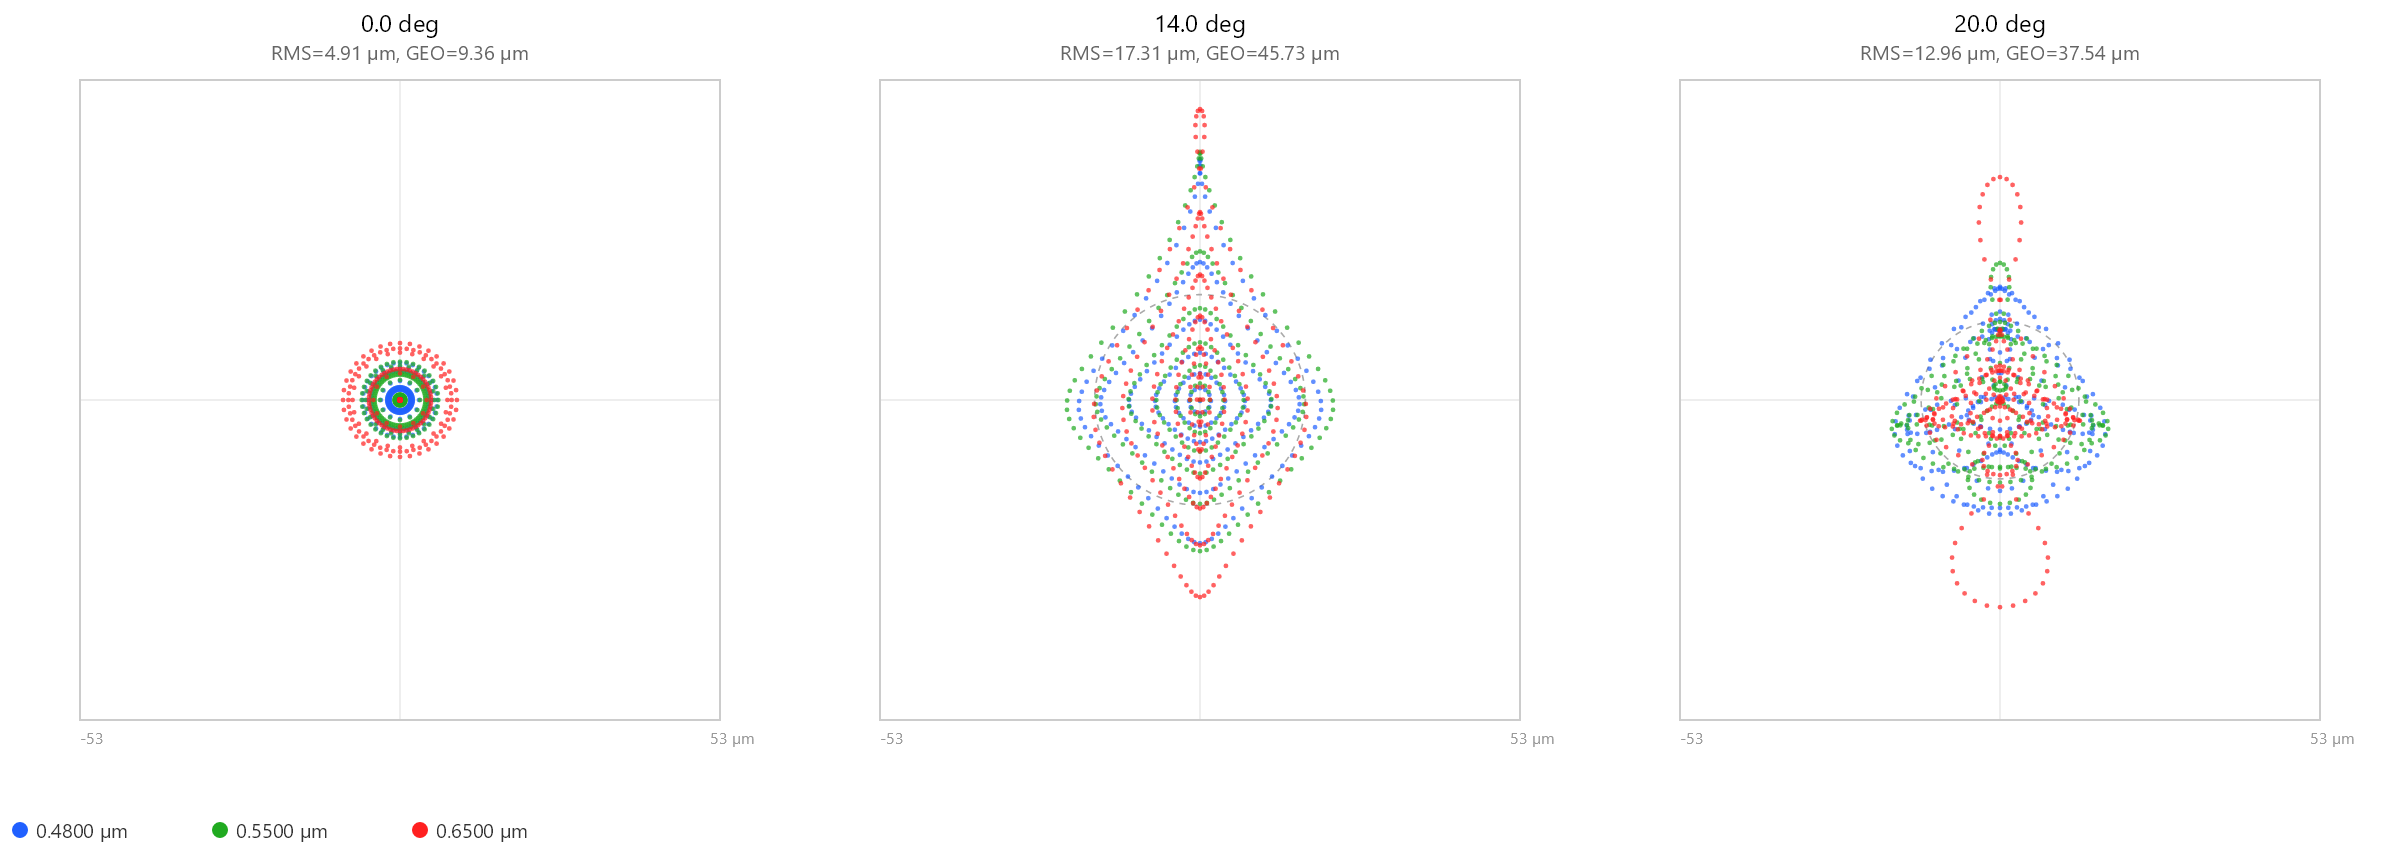
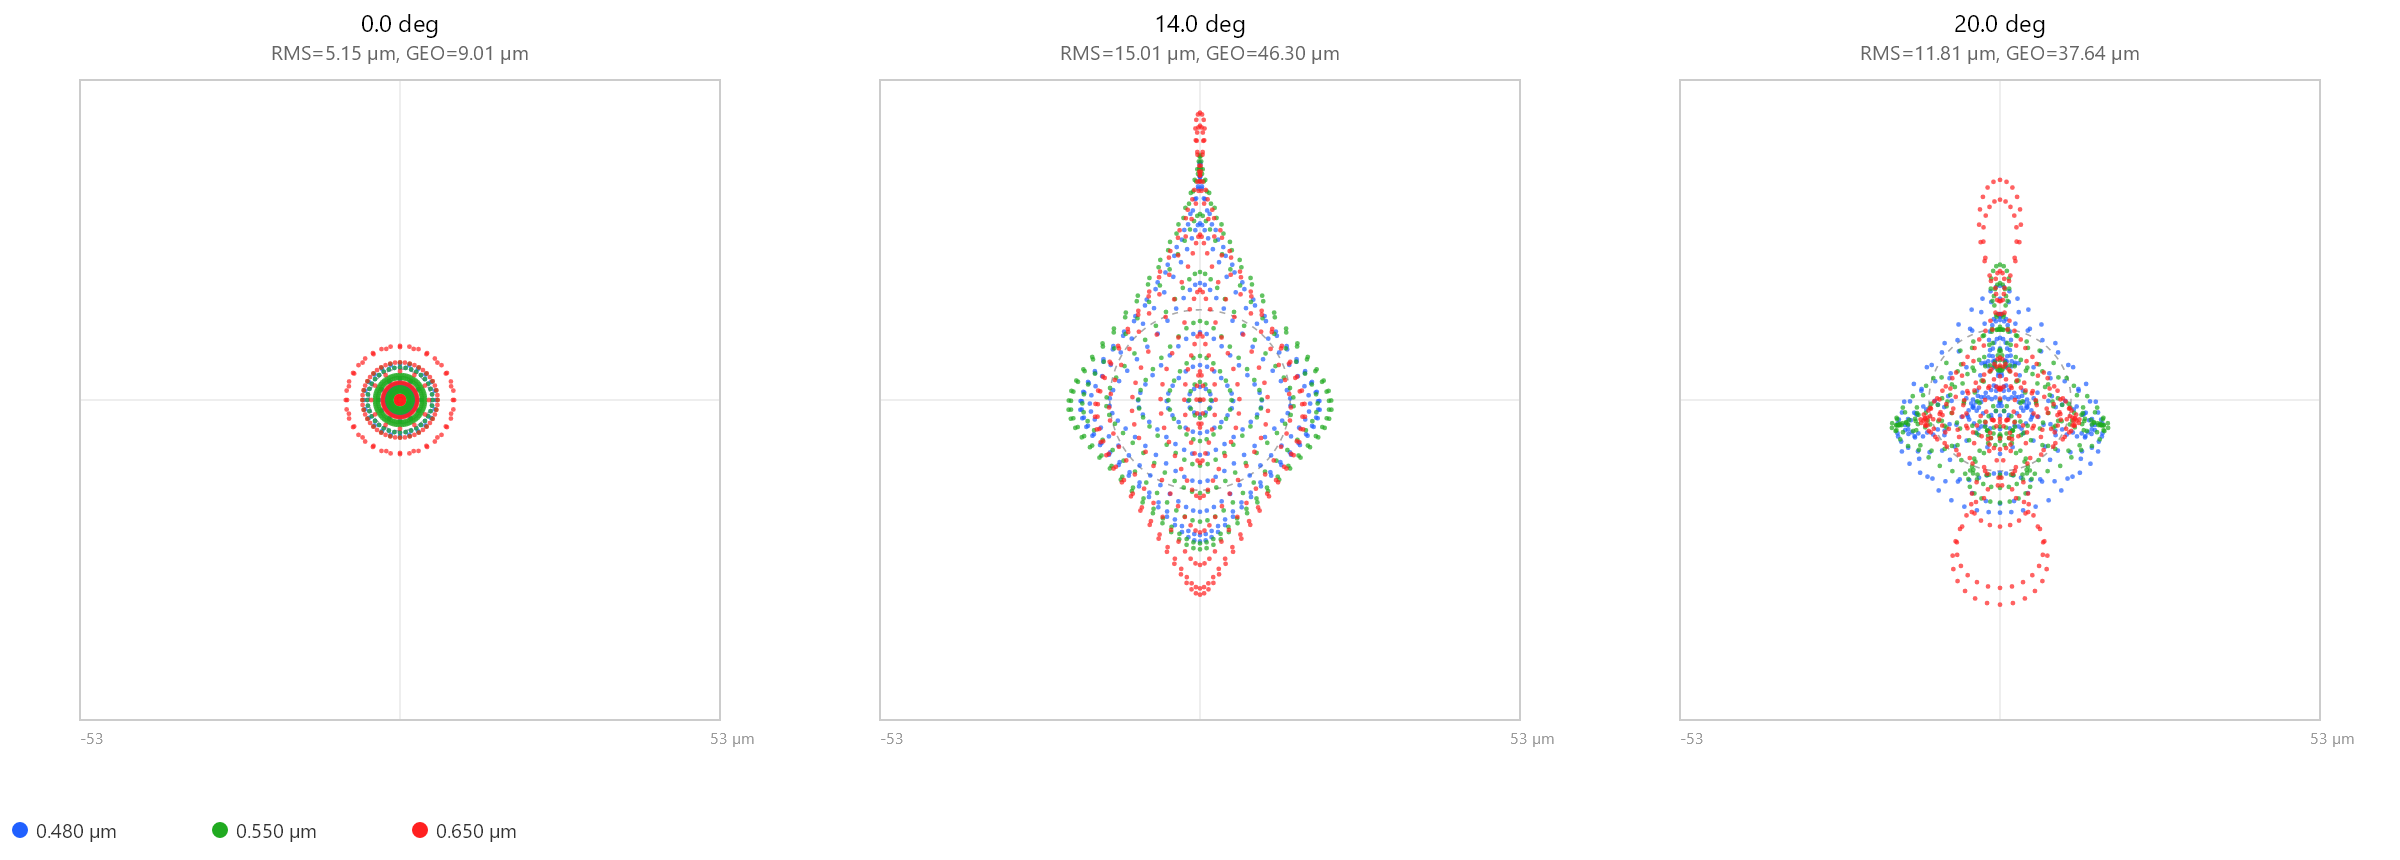
docs: refresh spot figures and tables for the 1.0.149 quadrature change
The spot diagram analysis now integrates the pupil with the same Gauss-Legendre
rule the SPOT/SPOTM merit macros already used, so every reported RMS spot radius
moved. Recaptured figures and regenerated the numbers that appear as text.

Figures replaced (all recaptured against their sample designs and cross-checked
against `analysis spot` on the same file):
  - CookeTripletAnalyses/SpotSize.png
  - CookeTripletLocalOptimization/SpotDiagramBeforeOptimization.png
  - CookeTripletMultiStart/SpotDiagramBeforeMultiStartOptimizationFixedGlass.png
    (same design and same capture as the LocalOptimization one above — the two
    figures were always duplicates)
  - CookeTripletSplit/SpotDiagramBeforeSplit.png, SpotDiagramafterSplit.png
  - SpcBk7Singlet/SpotDiagramBestDesignAfterSPC.png, ...AfterSPCandMS.png

analyses.md — Cooke triplet RMS/GEO table. Note GEO also moves off-axis: it is
the max radius about the CENTROID, and the centroid shifts slightly once the RMS
weighting changes. On-axis GEO is unchanged (8.07) because symmetry pins the
centroid at zero.

optimization.md — the asphere case study's RMS-spot table, regenerated from
samples/UserGuide/LensFilesForManual/CookeTriplet_UC_GS_Best_*.lhlt and confirmed
against recaptured spot diagrams (all 21 values agree).

The prose above that table needed rewriting, not just renumbering. It previously
read "the on-axis spot grows a little (3.15 -> 4.49 um)" and framed the result as
[…]

diff --git a/docs/build/gen-asphere-charts.js b/docs/build/gen-asphere-charts.js
@@ -12,14 +12,20 @@ const series = [
   { key: 'After asphere + BH',        color: '#9bbb59' },
 ];
 // [before, afterAsphere, afterBH] per field
+// Regenerated 2026-08-23 for 1.0.149, in which the spot analysis switched to the same
+// Gauss-Legendre pupil quadrature the SPOT/SPOTM merit macros already used. The previous
+// figures came from the old display-pattern average, which over-weighted the pupil rim and
+// so read high — most at the outer field, where aberration is rim-peaked (20 deg was 11.59,
+// is 7.62). Values below are 'analysis spot <field>' on the three sample designs in
+// samples/UserGuide/LensFilesForManual/, and match the recaptured spot diagrams exactly.
 const spot = {  // RMS spot radius, µm (polychromatic)
-  0:  [3.147, 3.342, 4.489],
-  5:  [3.021, 2.867, 4.157],
-  8:  [2.922, 2.333, 3.636],
-  11: [3.222, 2.328, 2.918],
-  14: [4.601, 3.628, 2.561],
-  17: [7.397, 6.035, 4.030],
-  20: [11.594, 9.214, 7.207],
+  0:  [3.147, 2.833, 2.728],
+  5:  [3.089, 2.541, 2.552],
+  8:  [2.969, 2.173, 2.282],
+  11: [2.856, 1.986, 1.944],
+  14: [3.201, 2.552, 1.945],
+  17: [4.717, 4.023, 3.091],
+  20: [7.620, 6.175, 5.296],
 };
 const wfe = {   // RMS wavefront error, waves (polychromatic weighted-RMS over 0.48/0.55/0.65 µm)
   0:  [0.086, 0.067, 0.045],
@@ -78,7 +84,7 @@ function chart(data, { title, yLabel, yMax, yTicks }) {
 
 const outDir = path.join(__dirname, '..', 'images', 'AsphereExploration');
 fs.writeFileSync(path.join(outDir, 'AsphereSpotVsField.svg'),
-  chart(spot, { title: 'RMS spot radius vs field', yLabel: 'RMS spot radius (µm)', yMax: 12, yTicks: 6 }));
+  chart(spot, { title: 'RMS spot radius vs field', yLabel: 'RMS spot radius (µm)', yMax: 8, yTicks: 4 }));
 fs.writeFileSync(path.join(outDir, 'AsphereWfeVsField.svg'),
   chart(wfe, { title: 'RMS wavefront error vs field (polychromatic)', yLabel: 'RMS WFE (waves)', yMax: 0.24, yTicks: 6 }));
 console.log('Wrote AsphereSpotVsField.svg + AsphereWfeVsField.svg to', outDir);

diff --git a/docs/optimization.md b/docs/optimization.md
@@ -1383,22 +1383,25 @@ between the corrected points.
 **Spot size — RMS radius (µm), polychromatic**
 
 The spot radii are tabulated rather than shown as diagrams (the
-per-field spot images are hard to read at print size). Note the
-trade the added fields force: the on-axis spot grows a little
-(3.15 → 4.49 µm) while the 20° edge improves by ~38 %
-(11.59 → 7.21 µm). The design is redistributed for uniformity
-across the field instead of being peaked on-axis — which is what
-keeps the MTF-vs-field curve flat.
+per-field spot images are hard to read at print size). Every field
+improves, and the two stages contribute in different places: the
+asphere does most of the work from the axis out to mid-field (8°:
+2.97 → 2.17 µm), while Basin Hopping spends its remaining freedom on
+the outer field, where the asphere alone left the most on the table
+(17°: 4.02 → 3.09 µm; 20°: 6.17 → 5.30 µm). End to end the on-axis
+spot tightens from 3.15 to 2.73 µm and the 20° edge by ~30 %, from
+7.62 to 5.30 µm — the outer field improving fastest is what keeps the
+MTF-vs-field curve flat.
 
 | Field (°) | Before | After asphere | After asphere + BH |
 |---:|---:|---:|---:|
-| 0  |  3.15 | 3.34 | 4.49 |
-| 5  |  3.02 | 2.87 | 4.16 |
-| 8  |  2.92 | 2.33 | 3.64 |
-| 11 |  3.22 | 2.33 | 2.92 |
-| 14 |  4.60 | 3.63 | 2.56 |
-| 17 |  7.40 | 6.03 | 4.03 |
-| 20 | 11.59 | 9.21 | 7.21 |
+| 0  | 3.15 | 2.83 | 2.73 |
+| 5  | 3.09 | 2.54 | 2.55 |
+| 8  | 2.97 | 2.17 | 2.28 |
+| 11 | 2.86 | 1.99 | 1.94 |
+| 14 | 3.20 | 2.55 | 1.94 |
+| 17 | 4.72 | 4.02 | 3.09 |
+| 20 | 7.62 | 6.17 | 5.30 |
 
 ![RMS spot radius vs field](images/AsphereExploration/AsphereSpotVsField.png)
 

diff --git a/docs/analyses.md b/docs/analyses.md
@@ -46,9 +46,9 @@ ray). In the Cooke triplet above:
 
 | Field | RMS | GEO |
 |---|---|---|
-| 0.0° | 4.34 µm | 8.07 µm |
-| 14.0° | 17.73 µm | 45.39 µm |
-| 20.0° | 14.27 µm | 43.27 µm |
+| 0.0° | 3.76 µm | 8.07 µm |
+| 14.0° | 15.41 µm | 46.05 µm |
+| 20.0° | 12.53 µm | 43.42 µm |
 
 The crosshair marks the chief ray; the star marks the centroid.
 The on-axis spot is dominated by spherochromatism (the 0.48 µm blue
